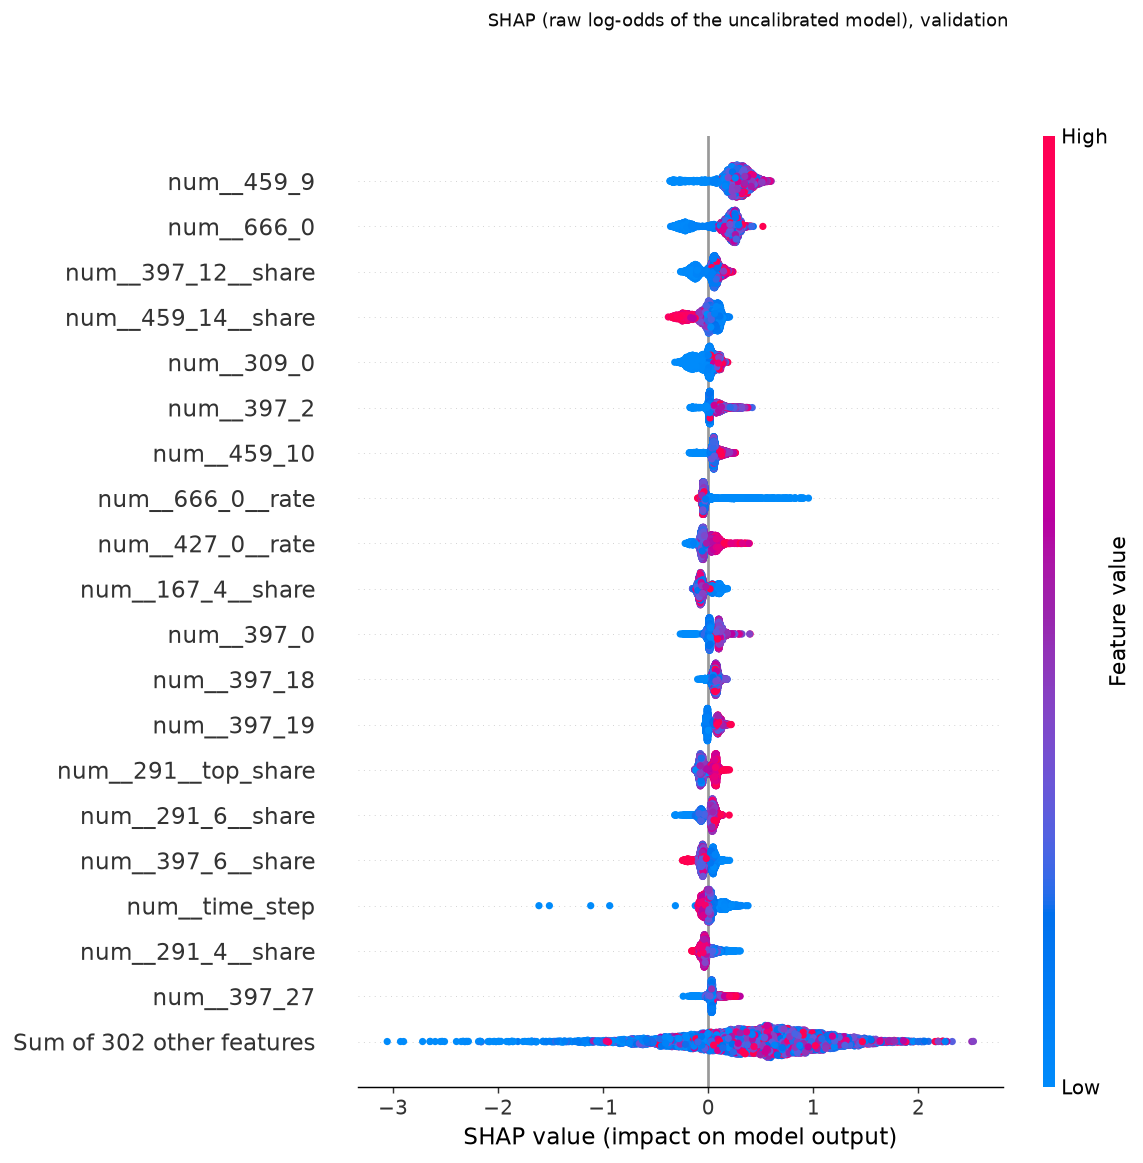
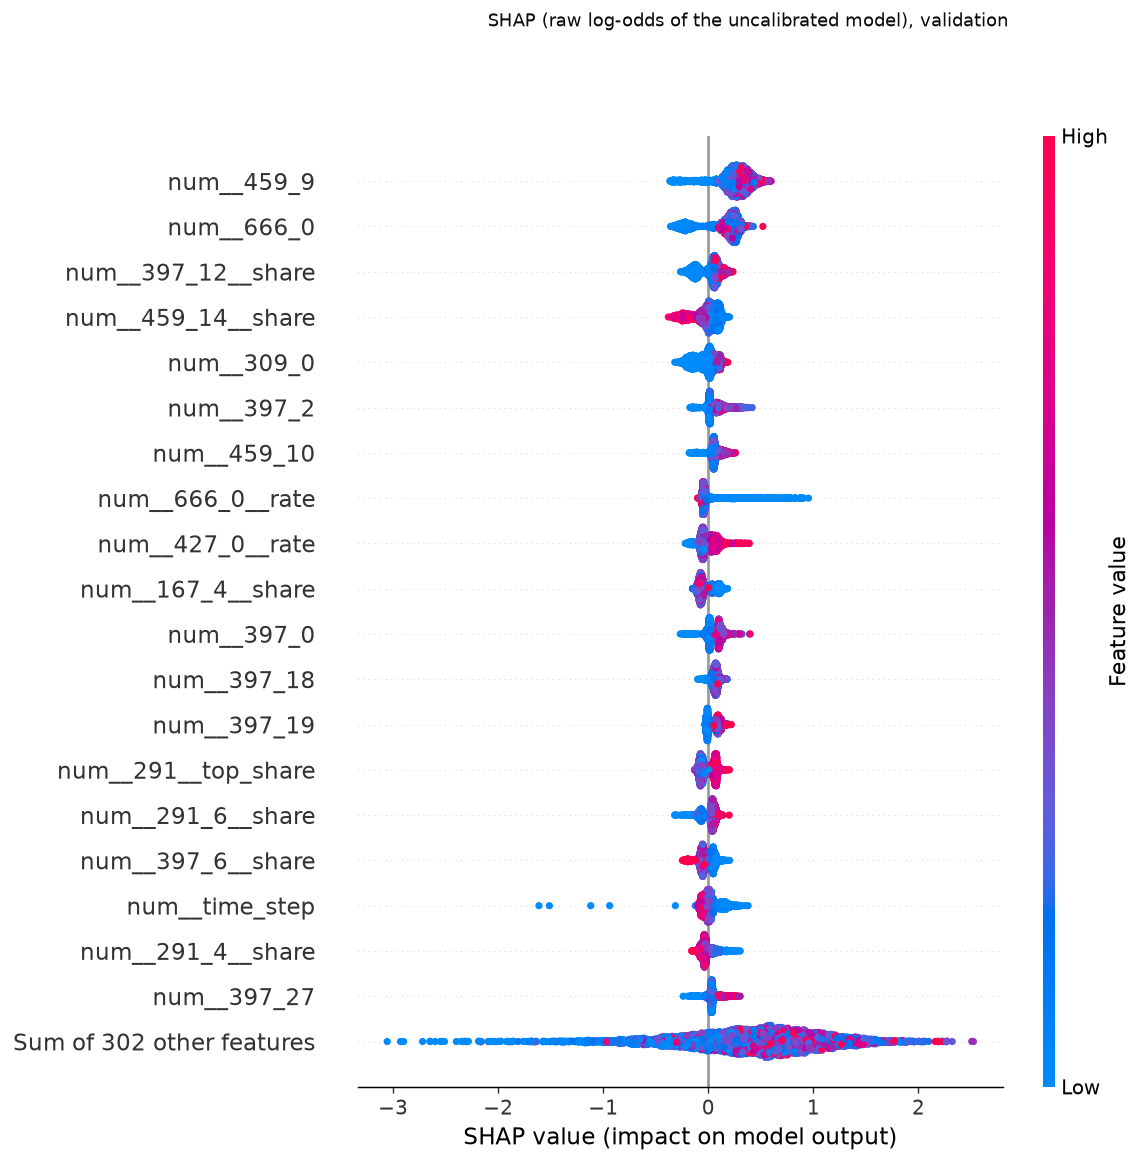
feat(explain): grouped permutation importance also scored by log loss
Same groups and shuffles, calibrated probabilities. Group 397 raises the log loss reliably
(+0.00132 +- 0.00036) although it does not change the PR-AUC: it sets the level, not the order.

Changed region(s): [[0.5512, 0.1238, 0.8268, 0.9286]]

diff --git a/src/failsense/explain/explain_q1.py b/src/failsense/explain/explain_q1.py
@@ -28,7 +28,7 @@ import numpy as np
 import pandas as pd
 import shap
 from scipy.stats import spearmanr
-from sklearn.metrics import average_precision_score
+from sklearn.metrics import average_precision_score, log_loss
 
 from failsense.config import load_config, resolve_path
 from failsense.data.labels import CLASS_COL, VEHICLE_COL
@@ -84,6 +84,14 @@ def pick_story_rows(
     pool, note = (class4, "class-4 miss") if class4.size else (missed, "no class-4 miss: any class")
     fn = int(pool[np.argmin(p_cal[pool])])
     return tp, fn, note
+
+
+def neg_log_loss(y_true: np.ndarray, p: np.ndarray) -> float:
+    """Negative log loss (higher is better, as ``permutation_importance`` expects).
+
+    Probabilities are clipped to [1e-6, 1 - 1e-6] like in the calibration step.
+    """
+    return -float(log_loss(y_true, np.clip(p, 1e-6, 1 - 1e-6), labels=[0, 1]))
 
 
 def group_shap(by_input: pd.DataFrame, groups: Mapping[str, list[str]]) -> pd.Series:
@@ -189,6 +197,13 @@ def run(config: Mapping[str, Any], track: bool = True) -> dict[str, Any]:
     start = time.perf_counter()
     perm_groups = permutation_importance(predict, x, y, groups, n_rep, seed)
     logger.info("Grouped permutation: %.1f s", time.perf_counter() - start)
+    # same groups and seed (= the same shuffles), scored by the log loss of CALIBRATED probabilities
+    start = time.perf_counter()
+    perm_ll = permutation_importance(
+        lambda f: apply_sigmoid_parameters(calibrator, predict(f)), x, y, groups, n_rep, seed,
+        metric=neg_log_loss,
+    )  # fmt: skip
+    logger.info("Grouped permutation (log loss): %.1f s", time.perf_counter() - start)
     start = time.perf_counter()
     perm_single = permutation_importance(predict, x, y, single, n_rep, seed)
     logger.info("Single-column permutation: %.1f s", time.perf_counter() - start)
@@ -198,6 +213,11 @@ def run(config: Mapping[str, Any], track: bool = True) -> dict[str, Any]:
     shap_by_group = group_shap(by_input, groups)
 
     table = perm_groups.set_index("group")
+    ll = perm_ll.set_index("group")
+    table["ll_baseline"] = -ll["baseline"]  # the log loss itself (lower is better)
+    table["ll_mean_increase"] = ll["mean_drop"]  # rise of the log loss when shuffled
+    table["ll_std"] = ll["std_drop"]
+    table["ll_reliable"] = ll["reliable"]
     table["shap_mean_abs"] = shap_by_group
     table["shap_share"] = table["shap_mean_abs"] / table["shap_mean_abs"].sum()
     table["gain"] = pd.Series({g: float(gain_by_input.reindex(c).sum()) for g, c in groups.items()})

diff --git a/tests/explain/test_explain_q1.py b/tests/explain/test_explain_q1.py
@@ -73,6 +73,29 @@ def test_compare_rankings_ranks_only_reliable_groups() -> None:
     assert out["n_reliable_groups"] == 2 and not math.isnan(out["spearman_all_groups"])
 
 
+def test_neg_log_loss_hand_computed_and_clipped() -> None:
+    assert eq.neg_log_loss(np.array([0, 1]), np.array([0.2, 0.8])) == pytest.approx(np.log(0.8))
+    assert np.isfinite(eq.neg_log_loss(np.array([1, 0]), np.array([0.0, 1.0])))  # clipped
+
+
+def test_log_loss_permutation_drop_is_the_rise_of_the_loss() -> None:
+    from failsense.explain.importance import permutation_importance
+
+    rng = np.random.default_rng(0)
+    x = pd.DataFrame({"s": rng.normal(size=600), "n": rng.normal(size=600)})
+    y = (x["s"] + rng.normal(size=600) > 0).astype(int).to_numpy()
+
+    def predict(f: pd.DataFrame) -> np.ndarray:
+        return 1 / (1 + np.exp(-2 * f["s"].to_numpy()))
+
+    table = permutation_importance(
+        predict, x, y, {"s": ["s"], "n": ["n"]}, 6, 0, metric=eq.neg_log_loss
+    ).set_index("group")
+
+    assert table.loc["s", "mean_drop"] > 0.1 and table.loc["n", "mean_drop"] == 0.0
+    assert -table.loc["s", "baseline"] == pytest.approx(-eq.neg_log_loss(y, predict(x)))
+
+
 def test_clean_makes_values_json_safe() -> None:
     out = eq._clean({"a": np.float64(np.nan), "b": [np.int64(2), np.bool_(True)], 3: float("inf")})
 

diff --git a/docs/problem_framing.md b/docs/problem_framing.md
@@ -1113,19 +1113,26 @@ performance.
 > them in an unintuitive way. The `interventional` variant with a training background sample is the
 > alternative; it is not used, for runtime reasons. This is why the main comparison is made on **groups**.
 
-| Group (variable) | Columns | Permutation drop of PR-AUC (mean ± std) | Reliable | Mean abs. SHAP of the group | Gain share |
-|---|---|---|---|---|---|
-| 397 (histogram) | 74 | −0.0023 ± 0.0067 | no | **0.630** (rank 1) | 23.5 % |
-| **459 (histogram)** | 42 | **+0.0131 ± 0.0039** | **yes (rank 1)** | 0.514 (rank 2) | 18.2 % |
-| 666 (counter) | 3 | +0.0090 ± 0.0054 | no | 0.211 (rank 3) | 9.1 % |
-| 167 (histogram) | 22 | +0.0076 ± 0.0046 | no | 0.170 (rank 4) | 7.3 % |
-| **291 (histogram)** | 24 | **+0.0077 ± 0.0025** | **yes (rank 2)** | 0.137 (rank 5) | 6.6 % |
-| 158 (histogram) | 22 | +0.0055 ± 0.0040 | no | 0.122 | 8.6 % |
-| `time_step` | 1 | +0.0019 ± 0.0027 | no | 0.057 (rank 11) | 0.4 % |
-| Spec_4 | 1 | +0.0005 ± 0.0001 | yes, but negligible | 0.003 | 0.7 % |
-| Spec_0 | 1 | 0 | no | 0 (never used) | 0 % |
+| Group (variable) | Columns | Permutation drop of PR-AUC (mean ± std) | Reliable | Rise of the log loss (calibrated p; baseline 0.1212) | Mean abs. SHAP of the group | Gain share |
+|---|---|---|---|---|---|---|
+| 397 (histogram) | 74 | −0.0023 ± 0.0067 | no | +0.00132 ± 0.00036 (reliable) | **0.630** (rank 1) | 23.5 % |
+| **459 (histogram)** | 42 | **+0.0131 ± 0.0039** | **yes (rank 1)** | +0.00311 ± 0.00054 (reliable) | 0.514 (rank 2) | 18.2 % |
+| 666 (counter) | 3 | +0.0090 ± 0.0054 | no | +0.00173 ± 0.00052 (reliable) | 0.211 (rank 3) | 9.1 % |
+| 167 (histogram) | 22 | +0.0076 ± 0.0046 | no | +0.00118 ± 0.00034 (reliable) | 0.170 (rank 4) | 7.3 % |
+| **291 (histogram)** | 24 | **+0.0077 ± 0.0025** | **yes (rank 2)** | +0.00072 ± 0.00029 (reliable) | 0.137 (rank 5) | 6.6 % |
+| 158 (histogram) | 22 | +0.0055 ± 0.0040 | no | +0.00160 ± 0.00028 (reliable) | 0.122 | 8.6 % |
+| `time_step` | 1 | +0.0019 ± 0.0027 | no | +0.00058 ± 0.00008 (reliable) | 0.057 (rank 11) | 0.4 % |
+| Spec_4 | 1 | +0.0005 ± 0.0001 | yes, but negligible | +0.00004 ± 0.00001 | 0.003 | 0.7 % |
+| Spec_0 | 1 | 0 | no | 0 | 0 (never used) | 0 % |
 
 (Full table with all 23 groups: `explain_q1_groups.csv`.)
+
+**Does 397 matter for the probability level although not for the ranking?** Yes. Scored by the log loss of
+the calibrated probabilities (same groups, same shuffles), shuffling group 397 raises the log loss by
++0.00132 ± 0.00036, a reliable rise (about 3.7 spreads, rank 4 of 23, behind 459, 666 and 158), while the
+PR-AUC does not fall (−0.0023 ± 0.0067): the 397 columns help set the *level* of the risk, not the order of
+the trucks. The log loss also separates more groups than PR-AUC (14 of 23 are reliable, against 3 for PR-AUC), because it uses
+every truck, not only the few positives.
 
 - **Where grouped permutation and grouped SHAP agree:** the histogram groups **459** and **291**. Both are
   in the top 5 of SHAP, and both are the only groups with a drop clearly above the spread (459: about
